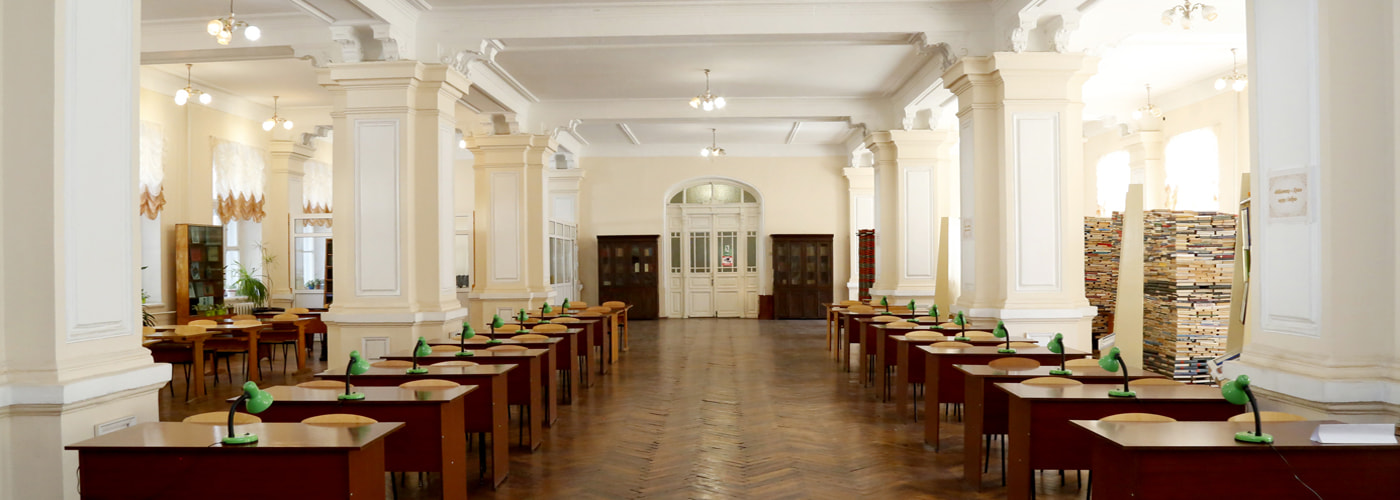
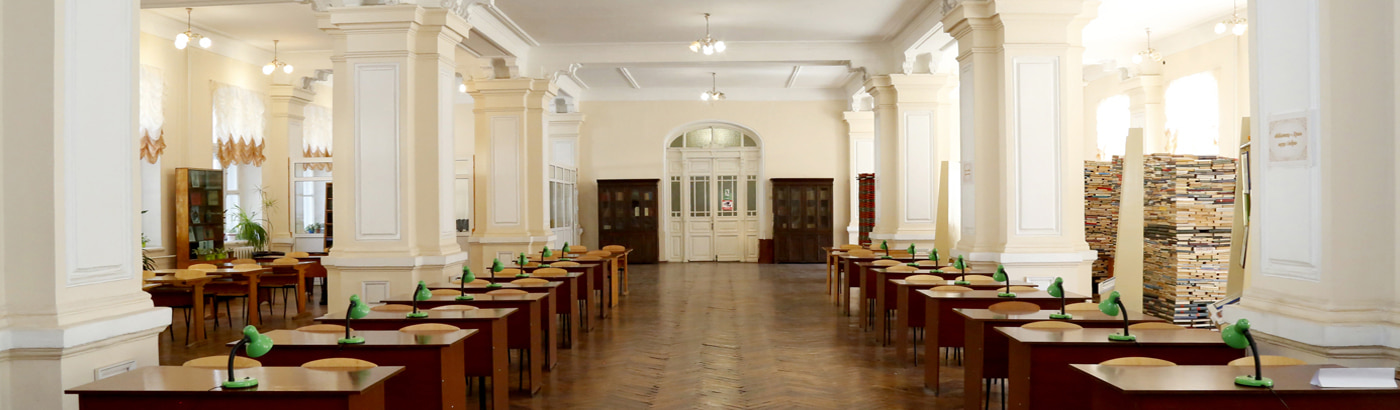
Change boxitem

diff --git a/css/main.min.css b/css/main.min.css
@@ -1,2 +1,2 @@
-*{margin:0;padding:0}html,body{height:100%;width:100%;font-family:"Raleway", sans-serif}html{scroll-behavior:smooth}a{text-decoration:none;color:inherit;padding:0;margin:0}h1,h2,h3,h4,p,button{padding:0;margin:0}ul{list-style:circle inside}address{font-style:normal}.wrapper{display:flex;flex-direction:column;min-height:100%;max-width:1440px;margin:0 auto}.section{display:flex;justify-content:center}.container{max-width:1024px;padding:50px 20px;display:flex;flex-direction:column}.text-bold{font-weight:600}.text-italic{font-style:italic}.footer{display:flex;justify-content:center;background-color:rgba(223,185,139,0.4);padding:25px}.footer__container{display:flex;flex-direction:column;justify-content:space-evenly;align-items:center;width:1360px;padding:20px;font-size:13px;box-shadow:rgba(90,69,66,0.25) 0px 30px 60px -12px inset,rgba(0,0,0,0.3) 0px 18px 36px -18px inset}@media (min-width: 768px){.footer__container{flex-direction:row;font-size:15px}}@media (min-width: 1024px){.footer__container{font-size:16px}}.footer__link{display:flex;flex-direction:column;align-items:center}@media (min-width: 768px){.footer__link{flex-direction:row}}.footer__img{height:50px}@media (min-width: 768px){.footer__img{height:80px}}@media (min-width: 1024px){.footer__img{height:100px}}.footer__item{text-align:center;padding:7px}.footer__weekend{font-weight:600}.footer__title{font-family:"Alegreya", serif;font-size:18px}.header__container{position:relative;display:flex;flex-direction:column;justify-content:center;background-color:rgba(223,185,139,0.4);padding:20px 20px 0px 20px;box-shadow:0px 4px 4px rgba(0,0,0,0.25)}.header__hero--main{background-image:linear-gradient(to right, rgba(114,95,78,0.6), rgba(22,16,5,0.7)),url("../img/VaodessaHeader.jpg")}.header__hero--common{background-image:linear-gradient(to right, rgba(114,95,78,0.6), rgba(22,16,5,0.7)),url("../img/heroCommon.jpg")}.header__hero--services{background-image:linear-gradient(to right, rgba(114,95,78,0.6), rgba(22,16,5,0.7)),url("../img/heroServices.jpg")}.header__hero--science{background-image:linear-gradient(to right, rgba(114,95,78,0.6), rgba(22,16,5,0.7)),url("../img/heroScience.jpg")}.header__background{background-color:rgba(223,185,139,0.4);background-size:cover;background-position:center center;background-repeat:no-repeat;max-width:727px;height:250px}@media (min-width: 768px){.header__background{max-width:983px;height:350px}}@media (min-width: 1024px){.header__background{max-width:1400px;height:500px}}.header__title{position:absolute;top:150px;left:-30px;width:300px;display:block;background-color:rgba(253,253,253,0.5);box-shadow:0px 4px 4px rgba(0,0,0,0.25)}@media (min-width: 768px){.header__title{top:270px;left:-30px;width:600px}}@media (min-width: 1024px){.header__title{top:350px;left:-30px;width:650px}}.header__image{position:relative;width:250px;left:50px}@media (min-width: 768px){.header__image{width:450px;left:55px}}@media (min-width: 1024px){.header__image{width:550px;left:55px}}.return-main{display:none}@media (min-width: 768px){.return-main{display:block;right:50px;bottom:unset;top:100px;font-size:16px;position:absolute;font-weight:600;background-color:rgba(90,69,66,0.7);box-shadow:0px 4px 4px rgba(219,198,177,0.5);color:rgba(253,253,253,0.7)}}@media (min-width: 1024px){.return-main{font-size:18px}}.main{flex:1 1 auto;height:100%;box-shadow:0px 5px 40px rgba(0,0,0,0.25)}.section__title{font-size:20px;text-align:center}.section__text{margin-top:15px;font-size:18px;text-align:justify}.subsection__title{font-size:16px;text-align:center;margin:30px 0 0}.hidden-title{position:absolute;width:1px;height:1px;margin:-1px;border:0;padding:0;white-space:nowrap;clip-path:inset(100%);clip:rect(0 0 0 0);overflow:hidden}.img{border-radius:10px;box-shadow:0px 4px 4px rgba(0,0,0,0.25);display:flex;align-items:center;background-color:rgba(223,185,139,0.4)}.img__thumb--left{display:flex;justify-content:center;margin:15px 15px 15px 0}@media (min-width: 610px){.img__thumb--left{float:left}}.img__thumb--right{display:flex;justify-content:center;margin:15px 0 15px 15px}@media (min-width: 610px){.img__thumb--right{float:right}}.img--horiz{max-width:300px}@media (min-width: 768px){.img--horiz{max-width:440px}}.img--vert{max-height:300px}@media (min-width: 768px){.img--vert{max-height:400px}}.header__menu{display:none}@media (min-width: 768px){.header__menu{display:block;height:55px;box-shadow:0px 4px 4px rgba(0,0,0,0.25);background-color:rgba(90,69,66,0.8)}}.menu__list{display:flex;justify-content:space-evenly}.menu__list>li{display:inline-block;position:relative}.menu__list>li:last-child{margin-right:0}.header__menu ul li:hover .menu__submenu{display:inline-block;opacity:1}.header__menu .menu__submenu{opacity:0}.menu__item__title{font-size:15px;font-weight:600;color:rgba(248,247,247,0.9)}@media (min-width: 1024px){.menu__item__title{font-size:18px}}.menu__item{width:275px;height:40px;font-size:14px;font-weight:600;text-align:center;padding:15px 5px 0}@media (min-width: 1024px){.menu__item{font-size:17px}}.menu__item:hover,.menu__item:focus{background-color:rgba(233,229,229,0.7)}.menu__item:hover .menu__item__title,.menu__item:focus .menu__item__title{color:rgba(44,30,22,0.9)}.menu__item:hover .menu__submenu,.menu__item:focus .menu__submenu{background-color:rgba(253,253,253,0.7)}.menu__item__container{display:flex;justify-content:center;align-items:center}.menu__item__arrow{transform:rotate(-90deg);transition:0.5s ease-in-out}.menu__item:hover .menu__item__arrow,.menu__item:focus .menu__item__arrow{transform:rotate(0)}.menu__text{font-size:15px}.menu__submenu{display:none;color:rgba(44,30,22,0.9);text-decoration:none;position:absolute;top:100%;left:0;width:100%;z-index:10;transition:0.5s ease-in-out;list-style-type:none}.menu__submenu__link{display:block;padding:3px 0}.menu__submenu__link:hover,.menu__submenu__link:focus{background-color:rgba(90,69,66,0.4)}.current{background-color:rgba(207,156,114,0.4);pointer-events:none;font-weight:700}@media (min-width: 320px){.mobile-menu__container{position:fixed;top:0;left:0;width:100vw;height:100vh;background-color:rgba(168,158,148,0.96);color:#1d1712;font-size:18px;transition:transform 250ms cubic-bezier(0.4, 0, 0.2, 1);transform:translateX(100%);overflow-y:scroll}}@media (min-width: 768px){.mobile-menu__container{display:none}}.mobile-menu__container.is-open{transform:translateX(0)}.not-scroll{overflow:hidden}.mobile-menu__openBtn{background-color:rgba(163,117,87,0.5);border:none;outline:none;box-shadow:0px 4px 4px rgba(219,198,177,0.5)}.mobile-menu__openIcon{fill:rgba(241,228,206,0.8)}.mobile-menu__list{list-style-type:none;min-width:280px;margin:0 auto;padding:60px 20px 20px}.mobile-menu__sublist{list-style:circle;margin-bottom:16px;margin-left:10px}.mobile-menu__sublist>li{margin-top:8px}.mobile-menu__title{font-family:"Alegreya", serif;font-size:20px;font-weight:600;text-align:center}.mobile-menu__closeBtn{position:absolute;right:30px;top:30px;outline:none;border:none;background-color:transparent}.mobile-menu__closeIcon{fill:currentColor}body.modal-open{overflow:hidden;position:fixed}.return-main--mobile{margin-bottom:20px;font-weight:600;text-decoration:underline}.mobileMenu__container{position:absolute;top:40px;right:40px;display:block}@media (min-width: 768px){.mobileMenu__container{display:none}}.current--mobile{background-color:rgba(156,129,106,0.6);pointer-events:none;font-weight:600}.about__container{padding:40px 30px}.about__text{margin-top:15px;font-size:18px;text-align:justify}.box-menu{background-color:rgba(223,185,139,0.1)}.box-menu__container{max-width:1300px}.box-menu__set{display:flex;justify-content:center;align-content:center;flex-wrap:wrap;list-style-type:none}@media (min-width: 768px){.box-menu__set>.card-set__card{flex-basis:calc((100% - 40px) / 2);align-content:flex-start}}@media (min-width: 768px) and (min-width: 1200px){.box-menu__set>.card-set__card{flex-basis:calc((100% - 60px) / 3)}}.box-menu__card{margin:10px;transition:1s}.box-menu__link{transition:box-shadow transform 250ms cubic-bezier(0.4, 0, 0.2, 1);display:block}.box-menu__link:hover .overlay,.box-menu__link:focus .overlay{transform:translateX(0);opacity:1}.box-menu__link:hover,.box-menu__link:focus{box-shadow:0px 1px 1px rgba(0,0,0,0.12),0px 4px 4px rgba(0,0,0,0.06),1px 4px 6px rgba(0,0,0,0.16);transform:scale(1.05)}.box-menu__thumb{width:280px;height:215px;position:relative;overflow:hidden}@media (min-width: 768px){.box-menu__thumb{width:344px;height:265px}}.box-menu__img{width:100%;height:100%;object-fit:cover}.box-menu__title{text-align:center;font-size:16px;background-color:rgba(223,185,139,0.4);padding:5px}@media (min-width: 768px){.box-menu__title{font-size:18px}}.overlay{position:absolute;top:0;left:0;margin:0 auto;display:flex;align-items:center;width:100%;height:100%;background-color:rgba(110,88,68,0.7);transition:transform 250ms cubic-bezier(0.4, 0, 0.2, 1)}@media (min-width: 1024px){.overlay{transform:translateY(100%)}}.overlay__text{font-size:15px;font-weight:600;line-height:1.555;letter-spacing:0.03em;color:white;padding:20px}.references__subtitle{text-align:center;font-size:16px}.references__list{display:flex;flex-direction:column;justify-content:center}@media (min-width: 768px){.references__list{flex-direction:row}}.references__item{display:flex;justify-content:center;text-align:center;padding:15px;font-size:10px}@media (min-width: 768px){.references__item{padding:35px;font-size:12px}}.references__img{height:100px}@media (min-width: 768px){.references__img{height:125px}}.newFlows__nav{margin-top:20px;margin-bottom:20px}.newFlows__menu{font-size:16px;font-weight:600;margin-bottom:20px}.newFlows__menu>li{margin-top:8px}.newFlows__menu>li:hover,.newFlows__menu>li:focus{color:#af5825}.newFlows__title{font-size:18px;text-align:center;margin:30px 0 0}.newFlows__list{font-size:16px;margin-left:10px;margin-bottom:10px}.newFlows__list>li{margin-top:8px}.newFlows__reference{margin:30px 0 20px;font-size:18px}.newFlows__link{color:#af5825;font-weight:600}.newFlows__link:hover,.newFlows__link:focus{color:#2d23c0}.periodicals__content{display:flex;flex-direction:column;justify-content:center;margin-top:50px;min-width:260px;font-size:10px}@media (min-width: 610px){.periodicals__content{font-size:13px}}@media (min-width: 768px){.periodicals__content{font-size:16px}}.magazines{font-size:7px}@media (min-width: 610px){.magazines{font-size:10px}}@media (min-width: 768px){.magazines{font-size:16px}}.table__title{font-size:20px}.periodicals__table{border:3px solid #aca7a7;margin-top:5px}th{background-color:rgba(221,216,219,0.5);text-align:center}tr,td{border:1px solid rgba(221,216,219,0.8);text-align:center;padding:3px}@media (min-width: 320px){.photoModal{position:fixed;top:0;left:0;width:100vw;height:100vh;display:flex;justify-content:center;align-items:center;background-color:rgba(49,47,45,0.7);color:#1d1712;font-size:18px;transition:transform 600ms cubic-bezier(0.4, 0, 0.2, 1);transform:translateX(100%);overflow-y:scroll}}.photoModal.is-open{transform:translateX(0)}.photoModal__img{max-width:90vw;max-height:750px}.photoModal:hover,.photoModal:focus{cursor:zoom-out}.gallery__set{margin-top:20px}.gallery__img:hover,.gallery__img:focus{cursor:zoom-in}.regulation__pretitle{text-align:right}.regulation__text{margin-top:10px;margin-bottom:30px}.services__img{width:260px}@media (min-width: 768px){.services__img{width:300px}}.services__item--img{list-style-type:none}.rules__nav{margin-top:20px;margin-bottom:20px}.rules__list{font-size:16px;font-weight:600;margin-bottom:20px}.rules__list>li{margin-top:8px}.rules__list>li:hover,.rules__list>li:focus{color:#af5825}.publication__nav{margin-top:20px;margin-bottom:20px}.publication__menu{font-size:16px;font-weight:600;margin-bottom:20px}.publication__menu>li{margin-top:8px}.publication__menu>li:hover,.publication__menu>li:focus{color:#af5825}.publication__title{font-size:16px;margin:30px 0 0}.publication__list{font-size:16px;margin-left:10px;margin-bottom:10px}.publication__list>li{margin-top:8px}.common__subsection__title{font-size:14px;margin:30px 0 0}.common__text{font-size:18px}.common__subsection__title{font-size:16px;margin-top:0}.staff{margin:50px 0;position:relative}.staff__item{margin-bottom:20px}.staff__item>p{margin-top:5px}.staff__list{list-style:none;margin-top:20px}.schedule__content{margin-top:20px}.schedule__content>p{margin-bottom:5px}.staff__img{max-width:300px}@media (min-width: 768px){.staff__img{margin-top:40px;max-width:550px}}.arrowTop{position:fixed;display:flex;justify-content:center;align-items:center;height:50px;width:50px;bottom:40px;right:20px;cursor:pointer;border-radius:45px;background-color:rgba(219,198,177,0.2);box-shadow:1px 1px 5px #5a4542}.arrowTop .hidden{display:none}.arrowTop:hover,.arrowTop:focus{background-color:rgba(117,102,99,0.5)}[hidden]{display:none}
+*{margin:0;padding:0}html,body{height:100%;width:100%;font-family:"Raleway", sans-serif}html{scroll-behavior:smooth}a{text-decoration:none;color:inherit;padding:0;margin:0}h1,h2,h3,h4,p,button{padding:0;margin:0}ul{list-style:circle inside}address{font-style:normal}.wrapper{display:flex;flex-direction:column;min-height:100%;max-width:1440px;margin:0 auto}.section{display:flex;justify-content:center}.container{max-width:1024px;padding:50px 20px;display:flex;flex-direction:column}.text-bold{font-weight:600}.text-italic{font-style:italic}.footer{display:flex;justify-content:center;background-color:rgba(223,185,139,0.4);padding:25px}.footer__container{display:flex;flex-direction:column;justify-content:space-evenly;align-items:center;width:1360px;padding:20px;font-size:13px;box-shadow:rgba(90,69,66,0.25) 0px 30px 60px -12px inset,rgba(0,0,0,0.3) 0px 18px 36px -18px inset}@media (min-width: 768px){.footer__container{flex-direction:row;font-size:15px}}@media (min-width: 1024px){.footer__container{font-size:16px}}.footer__link{display:flex;flex-direction:column;align-items:center}@media (min-width: 768px){.footer__link{flex-direction:row}}.footer__img{height:50px}@media (min-width: 768px){.footer__img{height:80px}}@media (min-width: 1024px){.footer__img{height:100px}}.footer__item{text-align:center;padding:7px}.footer__weekend{font-weight:600}.footer__title{font-family:"Alegreya", serif;font-size:18px}.header__container{position:relative;display:flex;flex-direction:column;justify-content:center;background-color:rgba(223,185,139,0.4);padding:20px 20px 0px 20px;box-shadow:0px 4px 4px rgba(0,0,0,0.25)}.header__hero--main{background-image:linear-gradient(to right, rgba(114,95,78,0.6), rgba(22,16,5,0.7)),url("../img/VaodessaHeader.jpg")}.header__hero--common{background-image:linear-gradient(to right, rgba(114,95,78,0.6), rgba(22,16,5,0.7)),url("../img/heroCommon.jpg")}.header__hero--services{background-image:linear-gradient(to right, rgba(114,95,78,0.6), rgba(22,16,5,0.7)),url("../img/heroServices.jpg")}.header__hero--science{background-image:linear-gradient(to right, rgba(114,95,78,0.6), rgba(22,16,5,0.7)),url("../img/heroScience.jpg")}.header__background{background-color:rgba(223,185,139,0.4);background-size:cover;background-position:center center;background-repeat:no-repeat;max-width:727px;height:200px}@media (min-width: 768px){.header__background{max-width:983px;height:300px}}@media (min-width: 1024px){.header__background{max-width:1400px;height:400px}}.header__title{position:absolute;top:130px;left:-25px;width:300px;display:block;background-color:rgba(253,253,253,0.5);box-shadow:0px 4px 4px rgba(0,0,0,0.25)}@media (min-width: 768px){.header__title{top:220px;left:-30px;width:600px}}@media (min-width: 1024px){.header__title{top:300px;left:-30px;width:650px}}.header__image{position:relative;width:250px;left:50px}@media (min-width: 768px){.header__image{width:450px;left:55px}}@media (min-width: 1024px){.header__image{width:550px;left:55px}}.return-main{display:none}@media (min-width: 768px){.return-main{display:block;right:50px;bottom:unset;top:100px;font-size:16px;position:absolute;font-weight:600;background-color:rgba(90,69,66,0.7);box-shadow:0px 4px 4px rgba(219,198,177,0.5);color:rgba(253,253,253,0.7)}}@media (min-width: 1024px){.return-main{font-size:18px}}.main{flex:1 1 auto;height:100%;box-shadow:0px 5px 40px rgba(0,0,0,0.25)}.section__title{font-size:20px;text-align:center}.section__text{margin-top:15px;font-size:18px;text-align:justify}.subsection__title{font-size:16px;text-align:center;margin:30px 0 0}.hidden-title{position:absolute;width:1px;height:1px;margin:-1px;border:0;padding:0;white-space:nowrap;clip-path:inset(100%);clip:rect(0 0 0 0);overflow:hidden}.img{border-radius:10px;box-shadow:0px 4px 4px rgba(0,0,0,0.25);display:flex;align-items:center;background-color:rgba(223,185,139,0.4)}.img__thumb--left{display:flex;justify-content:center;margin:15px 15px 15px 0}@media (min-width: 610px){.img__thumb--left{float:left}}.img__thumb--right{display:flex;justify-content:center;margin:15px 0 15px 15px}@media (min-width: 610px){.img__thumb--right{float:right}}.img--horiz{max-width:300px}@media (min-width: 768px){.img--horiz{max-width:440px}}.img--vert{max-height:300px}@media (min-width: 768px){.img--vert{max-height:400px}}.header__menu{display:none}@media (min-width: 768px){.header__menu{display:block;height:55px;box-shadow:0px 4px 4px rgba(0,0,0,0.25);background-color:rgba(90,69,66,0.8)}}.menu__list{display:flex;justify-content:space-evenly}.menu__list>li{display:inline-block;position:relative}.menu__list>li:last-child{margin-right:0}.header__menu ul li:hover .menu__submenu{display:inline-block;opacity:1}.header__menu .menu__submenu{opacity:0}.menu__item__title{font-size:15px;font-weight:600;color:rgba(248,247,247,0.9)}@media (min-width: 1024px){.menu__item__title{font-size:18px}}.menu__item{width:275px;height:40px;font-size:14px;font-weight:600;text-align:center;padding:15px 5px 0}@media (min-width: 1024px){.menu__item{font-size:17px}}.menu__item:hover,.menu__item:focus{background-color:rgba(233,229,229,0.7)}.menu__item:hover .menu__item__title,.menu__item:focus .menu__item__title{color:rgba(44,30,22,0.9)}.menu__item:hover .menu__submenu,.menu__item:focus .menu__submenu{background-color:rgba(253,253,253,0.7)}.menu__item__container{display:flex;justify-content:center;align-items:center}.menu__item__arrow{transform:rotate(-90deg);transition:0.5s ease-in-out}.menu__item:hover .menu__item__arrow,.menu__item:focus .menu__item__arrow{transform:rotate(0)}.menu__text{font-size:15px}.menu__submenu{display:none;color:rgba(44,30,22,0.9);text-decoration:none;position:absolute;top:100%;left:0;width:100%;z-index:10;transition:0.5s ease-in-out;list-style-type:none}.menu__submenu__link{display:block;padding:3px 0}.menu__submenu__link:hover,.menu__submenu__link:focus{background-color:rgba(90,69,66,0.4)}.current{background-color:rgba(207,156,114,0.4);pointer-events:none;font-weight:700}@media (min-width: 320px){.mobile-menu__container{position:fixed;top:0;left:0;width:100vw;height:100vh;background-color:rgba(168,158,148,0.96);color:#1d1712;font-size:18px;transition:transform 250ms cubic-bezier(0.4, 0, 0.2, 1);transform:translateX(100%);overflow-y:scroll}}@media (min-width: 768px){.mobile-menu__container{display:none}}.mobile-menu__container.is-open{transform:translateX(0)}.not-scroll{overflow:hidden}.mobile-menu__openBtn{background-color:rgba(163,117,87,0.5);border:none;outline:none;box-shadow:0px 4px 4px rgba(219,198,177,0.5)}.mobile-menu__openIcon{fill:rgba(241,228,206,0.8)}.mobile-menu__list{list-style-type:none;min-width:280px;margin:0 auto;padding:60px 20px 20px}.mobile-menu__sublist{list-style:circle;margin-bottom:16px;margin-left:10px}.mobile-menu__sublist>li{margin-top:8px}.mobile-menu__title{font-family:"Alegreya", serif;font-size:20px;font-weight:600;text-align:center}.mobile-menu__closeBtn{position:absolute;right:30px;top:30px;outline:none;border:none;background-color:transparent}.mobile-menu__closeIcon{fill:currentColor}body.modal-open{overflow:hidden;position:fixed}.return-main--mobile{margin-bottom:20px;font-weight:600;text-decoration:underline}.mobileMenu__container{position:absolute;top:40px;right:40px;display:block}@media (min-width: 768px){.mobileMenu__container{display:none}}.current--mobile{background-color:rgba(156,129,106,0.6);pointer-events:none;font-weight:600}.about__container{padding:40px 30px}.about__text{margin-top:15px;font-size:18px;text-align:justify}.box-menu{background-color:rgba(223,185,139,0.1)}.box-menu__container{max-width:1300px}.box-menu__set{display:flex;justify-content:center;align-content:center;flex-wrap:wrap;list-style-type:none}@media (min-width: 768px){.box-menu__set>.card-set__card{flex-basis:calc((100% - 40px) / 2);align-content:flex-start}}@media (min-width: 768px) and (min-width: 1200px){.box-menu__set>.card-set__card{flex-basis:calc((100% - 60px) / 3)}}.box-menu__card{margin:10px;transition:1s}.box-menu__link{transition:box-shadow transform 250ms cubic-bezier(0.4, 0, 0.2, 1);display:block}.box-menu__link:hover .overlay,.box-menu__link:focus .overlay{transform:translateX(0);opacity:1}.box-menu__link:hover,.box-menu__link:focus{box-shadow:0px 1px 1px rgba(0,0,0,0.12),0px 4px 4px rgba(0,0,0,0.06),1px 4px 6px rgba(0,0,0,0.16);transform:scale(1.05)}.box-menu__thumb{width:280px;height:215px;position:relative;overflow:hidden}@media (min-width: 768px){.box-menu__thumb{width:344px;height:265px}}.box-menu__img{width:100%;height:100%;object-fit:cover}.box-menu__title{text-align:center;font-size:16px;background-color:rgba(223,185,139,0.4);padding:5px}@media (min-width: 768px){.box-menu__title{font-size:18px}}.overlay{position:absolute;top:0;left:0;margin:0 auto;display:flex;align-items:center;width:100%;height:100%;background-color:rgba(110,88,68,0.7);transition:transform 250ms cubic-bezier(0.4, 0, 0.2, 1)}@media (min-width: 1024px){.overlay{transform:translateY(100%)}}.overlay__text{font-size:15px;font-weight:600;line-height:1.555;letter-spacing:0.03em;color:white;padding:20px}.references__subtitle{text-align:center;font-size:16px}.references__list{display:flex;flex-direction:column;justify-content:center}@media (min-width: 768px){.references__list{flex-direction:row}}.references__item{display:flex;justify-content:center;text-align:center;padding:15px;font-size:10px}@media (min-width: 768px){.references__item{padding:35px;font-size:12px}}.references__img{height:100px}@media (min-width: 768px){.references__img{height:125px}}.newFlows__nav{margin-top:20px;margin-bottom:20px}.newFlows__menu{font-size:16px;font-weight:600;margin-bottom:20px}.newFlows__menu>li{margin-top:8px}.newFlows__menu>li:hover,.newFlows__menu>li:focus{color:#af5825}.newFlows__title{font-size:18px;text-align:center;margin:30px 0 0}.newFlows__list{font-size:16px;margin-left:10px;margin-bottom:10px}.newFlows__list>li{margin-top:8px}.newFlows__reference{margin:30px 0 20px;font-size:18px}.newFlows__link{color:#af5825;font-weight:600}.newFlows__link:hover,.newFlows__link:focus{color:#2d23c0}.periodicals__content{display:flex;flex-direction:column;justify-content:center;margin-top:50px;min-width:260px;font-size:10px}@media (min-width: 610px){.periodicals__content{font-size:13px}}@media (min-width: 768px){.periodicals__content{font-size:16px}}.magazines{font-size:7px}@media (min-width: 610px){.magazines{font-size:10px}}@media (min-width: 768px){.magazines{font-size:16px}}.table__title{font-size:20px}.periodicals__table{border:3px solid #aca7a7;margin-top:5px}th{background-color:rgba(221,216,219,0.5);text-align:center}tr,td{border:1px solid rgba(221,216,219,0.8);text-align:center;padding:3px}@media (min-width: 320px){.photoModal{position:fixed;top:0;left:0;width:100vw;height:100vh;display:flex;justify-content:center;align-items:center;background-color:rgba(49,47,45,0.7);color:#1d1712;font-size:18px;transition:transform 600ms cubic-bezier(0.4, 0, 0.2, 1);transform:translateX(100%);overflow-y:scroll}}.photoModal.is-open{transform:translateX(0)}.photoModal__img{max-width:90vw;max-height:750px}.photoModal:hover,.photoModal:focus{cursor:zoom-out}.gallery__set{margin-top:20px}.gallery__img:hover,.gallery__img:focus{cursor:zoom-in}.regulation__pretitle{text-align:right}.regulation__text{margin-top:10px;margin-bottom:30px}.services__img{width:260px}@media (min-width: 768px){.services__img{width:300px}}.services__item--img{list-style-type:none}.rules__nav{margin-top:20px;margin-bottom:20px}.rules__list{font-size:16px;font-weight:600;margin-bottom:20px}.rules__list>li{margin-top:8px}.rules__list>li:hover,.rules__list>li:focus{color:#af5825}.publication__nav{margin-top:20px;margin-bottom:20px}.publication__menu{font-size:16px;font-weight:600;margin-bottom:20px}.publication__menu>li{margin-top:8px}.publication__menu>li:hover,.publication__menu>li:focus{color:#af5825}.publication__title{font-size:16px;margin:30px 0 0}.publication__list{font-size:16px;margin-left:10px;margin-bottom:10px}.publication__list>li{margin-top:8px}.common__subsection__title{font-size:14px;margin:30px 0 0}.common__text{font-size:18px}.common__subsection__title{font-size:16px;margin-top:0}.staff{margin:50px 0;position:relative}.staff__item{margin-bottom:20px}.staff__item>p{margin-top:5px}.staff__list{list-style:none;margin-top:20px}.schedule__content{margin-top:20px}.schedule__content>p{margin-bottom:5px}.staff__img{max-width:300px}@media (min-width: 768px){.staff__img{margin-top:40px;max-width:550px}}.arrowTop{position:fixed;display:flex;justify-content:center;align-items:center;height:50px;width:50px;bottom:40px;right:20px;cursor:pointer;border-radius:45px;background-color:rgba(219,198,177,0.2);box-shadow:1px 1px 5px #5a4542}.arrowTop .hidden{display:none}.arrowTop:hover,.arrowTop:focus{background-color:rgba(117,102,99,0.5)}[hidden]{display:none}
 /*# sourceMappingURL=main.min.css.map */

diff --git a/index.html b/index.html
@@ -166,9 +166,23 @@
               </li>
               
               <li class="box-menu__card">
+                <a class="box-menu__link" href="./photogalereya-biblioteky.html">
+                  <div class="box-menu__thumb">
+                    <img class="box-menu__img" src="./img/boxMenu/boxPhoto.jpg" alt="Будиночок з книжок>">
+                    <div class="overlay">
+                      <p class="overlay__text">Можна просто зараз зазирнути у цікаве бібліотечне життя, лише завітавши до фотогалереї...</p>
+                    </div>
+                  </div>
+                  <div class="box-menu__content">
+                    <h2 class="box-menu__title">Фотогалерея бібліотеки</h2>
+                  </div>
+                </a>
+              </li>
+              
+              <li class="box-menu__card">
                 <a class="box-menu__link" href="./novyny-biblioteky.html">
                   <div class="box-menu__thumb">
-                    <img class="box-menu__img" src="./img/boxMenu/boxNews.jpg" alt="Книжковий будиночок">
+                    <img class="box-menu__img" src="./img/boxMenu/boxVystavky.jpg" alt="Виставка до Дня міста">
                     <div class="overlay">
                       <p class="overlay__text">Що нового відбувається в бібліотеці, і які нові можливості це відкриває для її користувачів...
 </p>
@@ -180,19 +194,7 @@
                 </a>
               </li>
               
-              <li class="box-menu__card">
-                <a class="box-menu__link" href="./vystavky.html">
-                  <div class="box-menu__thumb">
-                    <img class="box-menu__img" src="./img/boxMenu/boxVystavky.jpg" alt="Виставка до Дня міста">
-                    <div class="overlay">
-                      <p class="overlay__text">Культура, історія, сьогодення - крізь призму друкованого слова. Будь в курсі значущих подій України і світу...</p>
-                    </div>
-                  </div>
-                  <div class="box-menu__content">
-                    <h2 class="box-menu__title">Тематичні виставки</h2>
-                  </div>
-                </a>
-              </li>
+              
             </ul>
           </div> 
         </section>

diff --git a/zagalna-informatsiya.html b/zagalna-informatsiya.html
@@ -131,7 +131,7 @@
                             тисячі примірники), яку можна взяти на абонемент. В бібліотеці покладено початок Фонду
                             рідкісної книги, для чого із
                             загального фонду відібрано близько 2 тисяч книг, в тому числі з військової тематики.
-                            Найстаріша книга датується 1894-м роком.</p>
+                            Найстаріша книга датується 1895-м роком.</p>
                          
                         <p class="section__text">У грудні 2016 року в бібліотеці встановлено Автоматизовану інформаційну
                             бібліотечну систему на базі програмного

diff --git a/css/main.css b/css/main.css
@@ -172,27 +172,27 @@ address {
   background-position: center center;
   background-repeat: no-repeat;
   max-width: 727px;
-  height: 250px;
+  height: 200px;
 }
 
 @media (min-width: 768px) {
   .header__background {
     max-width: 983px;
-    height: 350px;
+    height: 300px;
   }
 }
 
 @media (min-width: 1024px) {
   .header__background {
     max-width: 1400px;
-    height: 500px;
+    height: 400px;
   }
 }
 
 .header__title {
   position: absolute;
-  top: 150px;
-  left: -30px;
+  top: 130px;
+  left: -25px;
   width: 300px;
   display: block;
   background-color: rgba(253, 253, 253, 0.5);
@@ -201,7 +201,7 @@ address {
 
 @media (min-width: 768px) {
   .header__title {
-    top: 270px;
+    top: 220px;
     left: -30px;
     width: 600px;
   }
@@ -209,7 +209,7 @@ address {
 
 @media (min-width: 1024px) {
   .header__title {
-    top: 350px;
+    top: 300px;
     left: -30px;
     width: 650px;
   }

diff --git a/styles/common/_header.scss b/styles/common/_header.scss
@@ -51,36 +51,36 @@
   background-repeat: no-repeat;
 
   max-width: 727px;
-  height: 250px;
+  height: 200px;
 
   @media (min-width: 768px) {
     max-width: 983px;
-    height: 350px;
+    height: 300px;
   }
 
   @media (min-width: 1024px) {
     max-width: 1400px;
-    height: 500px;
+    height: 400px;
   }
 }
 
 .header__title {
   position: absolute;
-  top: 150px;
-  left: -30px;
+  top: 130px;
+  left: -25px;
   width: 300px;
   display: block;
   background-color: rgba(253, 253, 253, 0.5);
   box-shadow: 0px 4px 4px rgba(0, 0, 0, 0.25);
 
   @media (min-width: 768px) {
-    top: 270px;
+    top: 220px;
     left: -30px;
     width: 600px;
   }
 
   @media (min-width: 1024px) {
-    top: 350px;
+    top: 300px;
     left: -30px;
     width: 650px;
   }
